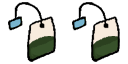
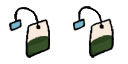
healing

Changed region(s): [[0.5625, 0.0312, 0.9375, 0.9688], [0.0625, 0.0312, 0.4375, 0.9688]]

diff --git a/src/gameobjects/TeaLife.js b/src/gameobjects/TeaLife.js
@@ -5,17 +5,21 @@ function TeaLife(scene, x, y, depth, isShadow) {
     this.vel = 0.3;
     this.initPosY = this.pos.y;
     this.endPosY = this.pos.y + Game.TILE_SIZE / 4;
-    this.sprite = this.prepareSprite(this.isShadow);
+    this.sprite = this.prepareAnimation(this.isShadow);
+    if(!this.isShadow){
+        this.sprite.initAnimation("idle");
+    }
 }
 
 TeaLife.prototype = Object.create(Pickupable.prototype);
 TeaLife.prototype.constructor = TeaLife;
 
-TeaLife.prototype.prepareSprite = function (isShadow) {
+TeaLife.prototype.prepareAnimation = function (isShadow) {
     let sprite = null;
 
     if (!isShadow) {
-        sprite = new Sprite(this.scene, "teaLife", 0, 0, 0, 0, Game.TILE_SIZE, Game.TILE_SIZE, 0);
+        sprite = new Sprite(this.scene, "teaLife",0, 0,0,0,Game.TILE_SIZE,Game.TILE_SIZE,0);
+        sprite.addAnimation("idle", 0, 2, 25, -1); 
     } else {
         sprite = new Sprite(this.scene, "teaLifeShadow", 0, 0, 0, 0, Game.TILE_SIZE, Game.TILE_SIZE, 0);
     }

diff --git a/src/ObjectFactory.js b/src/ObjectFactory.js
@@ -81,8 +81,8 @@ ObjectFactory.prototype.createProductFromColor = function (color, x, y) {
             console.log("created teapot");
             new GoldenTeapot(this.scene, x, y, 0);
         }else if(color.equals(new Color(255, 122, 122, 255))){
-            new TeaLife(this.scene, x, y, 0, false);
-            new TeaLife(this.scene, x, y-Game.TILE_SIZE*this.scene.shadowLevel, 0, true); 
+            new TeaLife(this.scene, x, y-16, 0, false);
+            new TeaLife(this.scene, x, y-Game.TILE_SIZE*this.scene.shadowLevel-16, 0, true); 
         }
     }
 }
